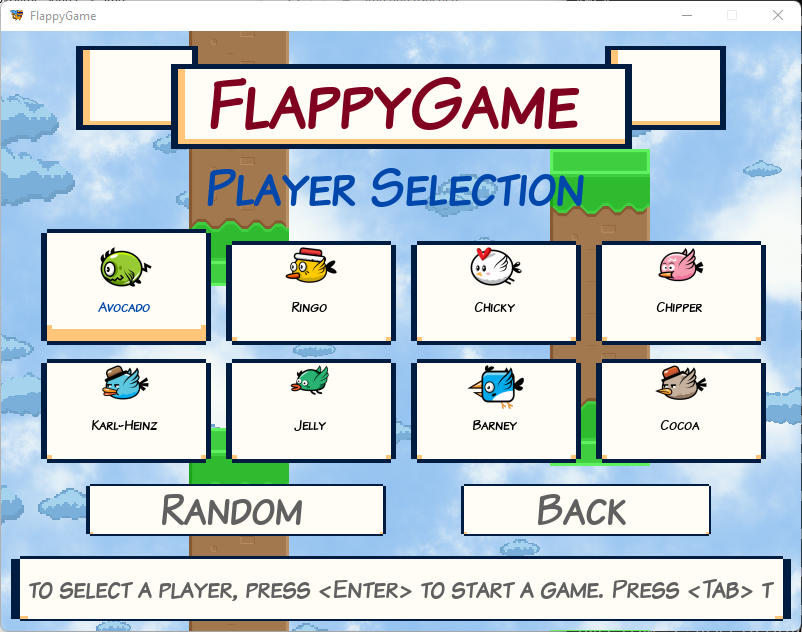
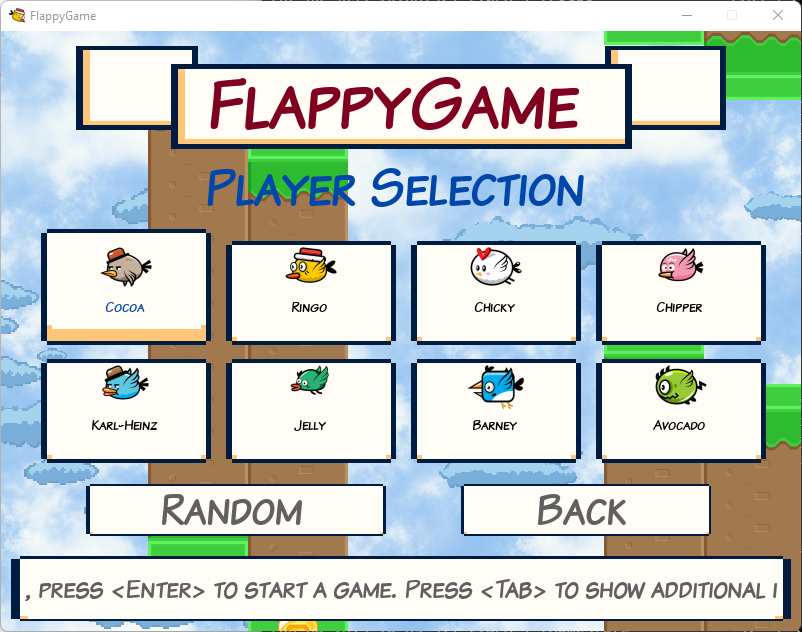
v1.2.0

diff --git a/CHANGELOG.md b/CHANGELOG.md
@@ -2,6 +2,12 @@
 
 ## Changelog
 
+### v1.2.0
+
+* Player tweaking
+* Introducing adjacent segments
+* General bug fixing, cleaning up and refactoring
+
 ### v1.1.0
 
 * Completely overhauled/replaced the players
